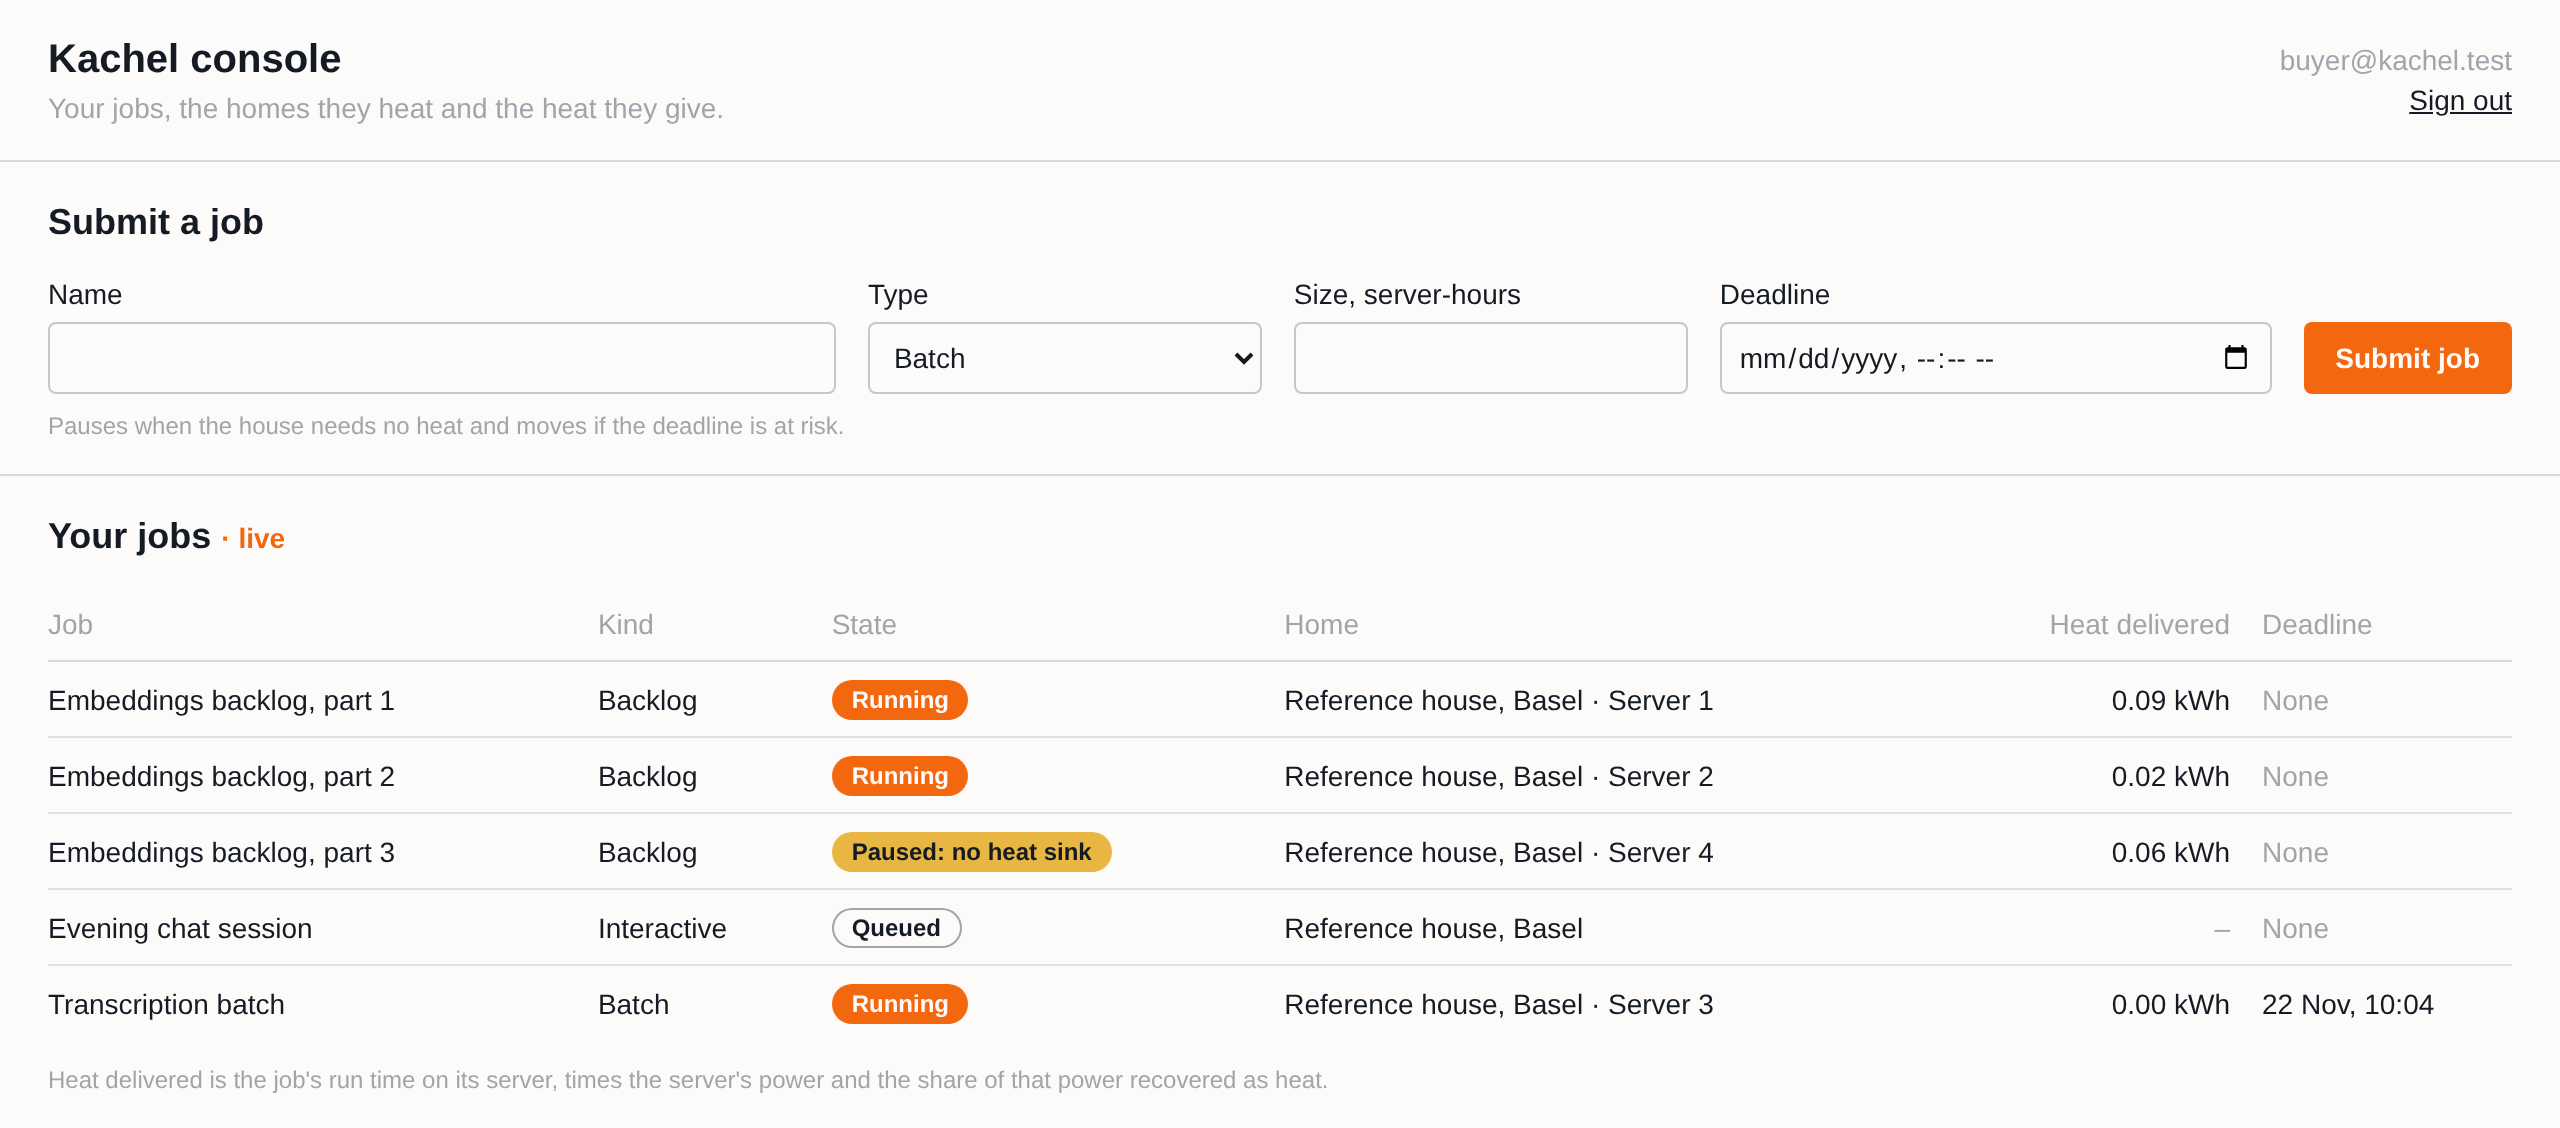
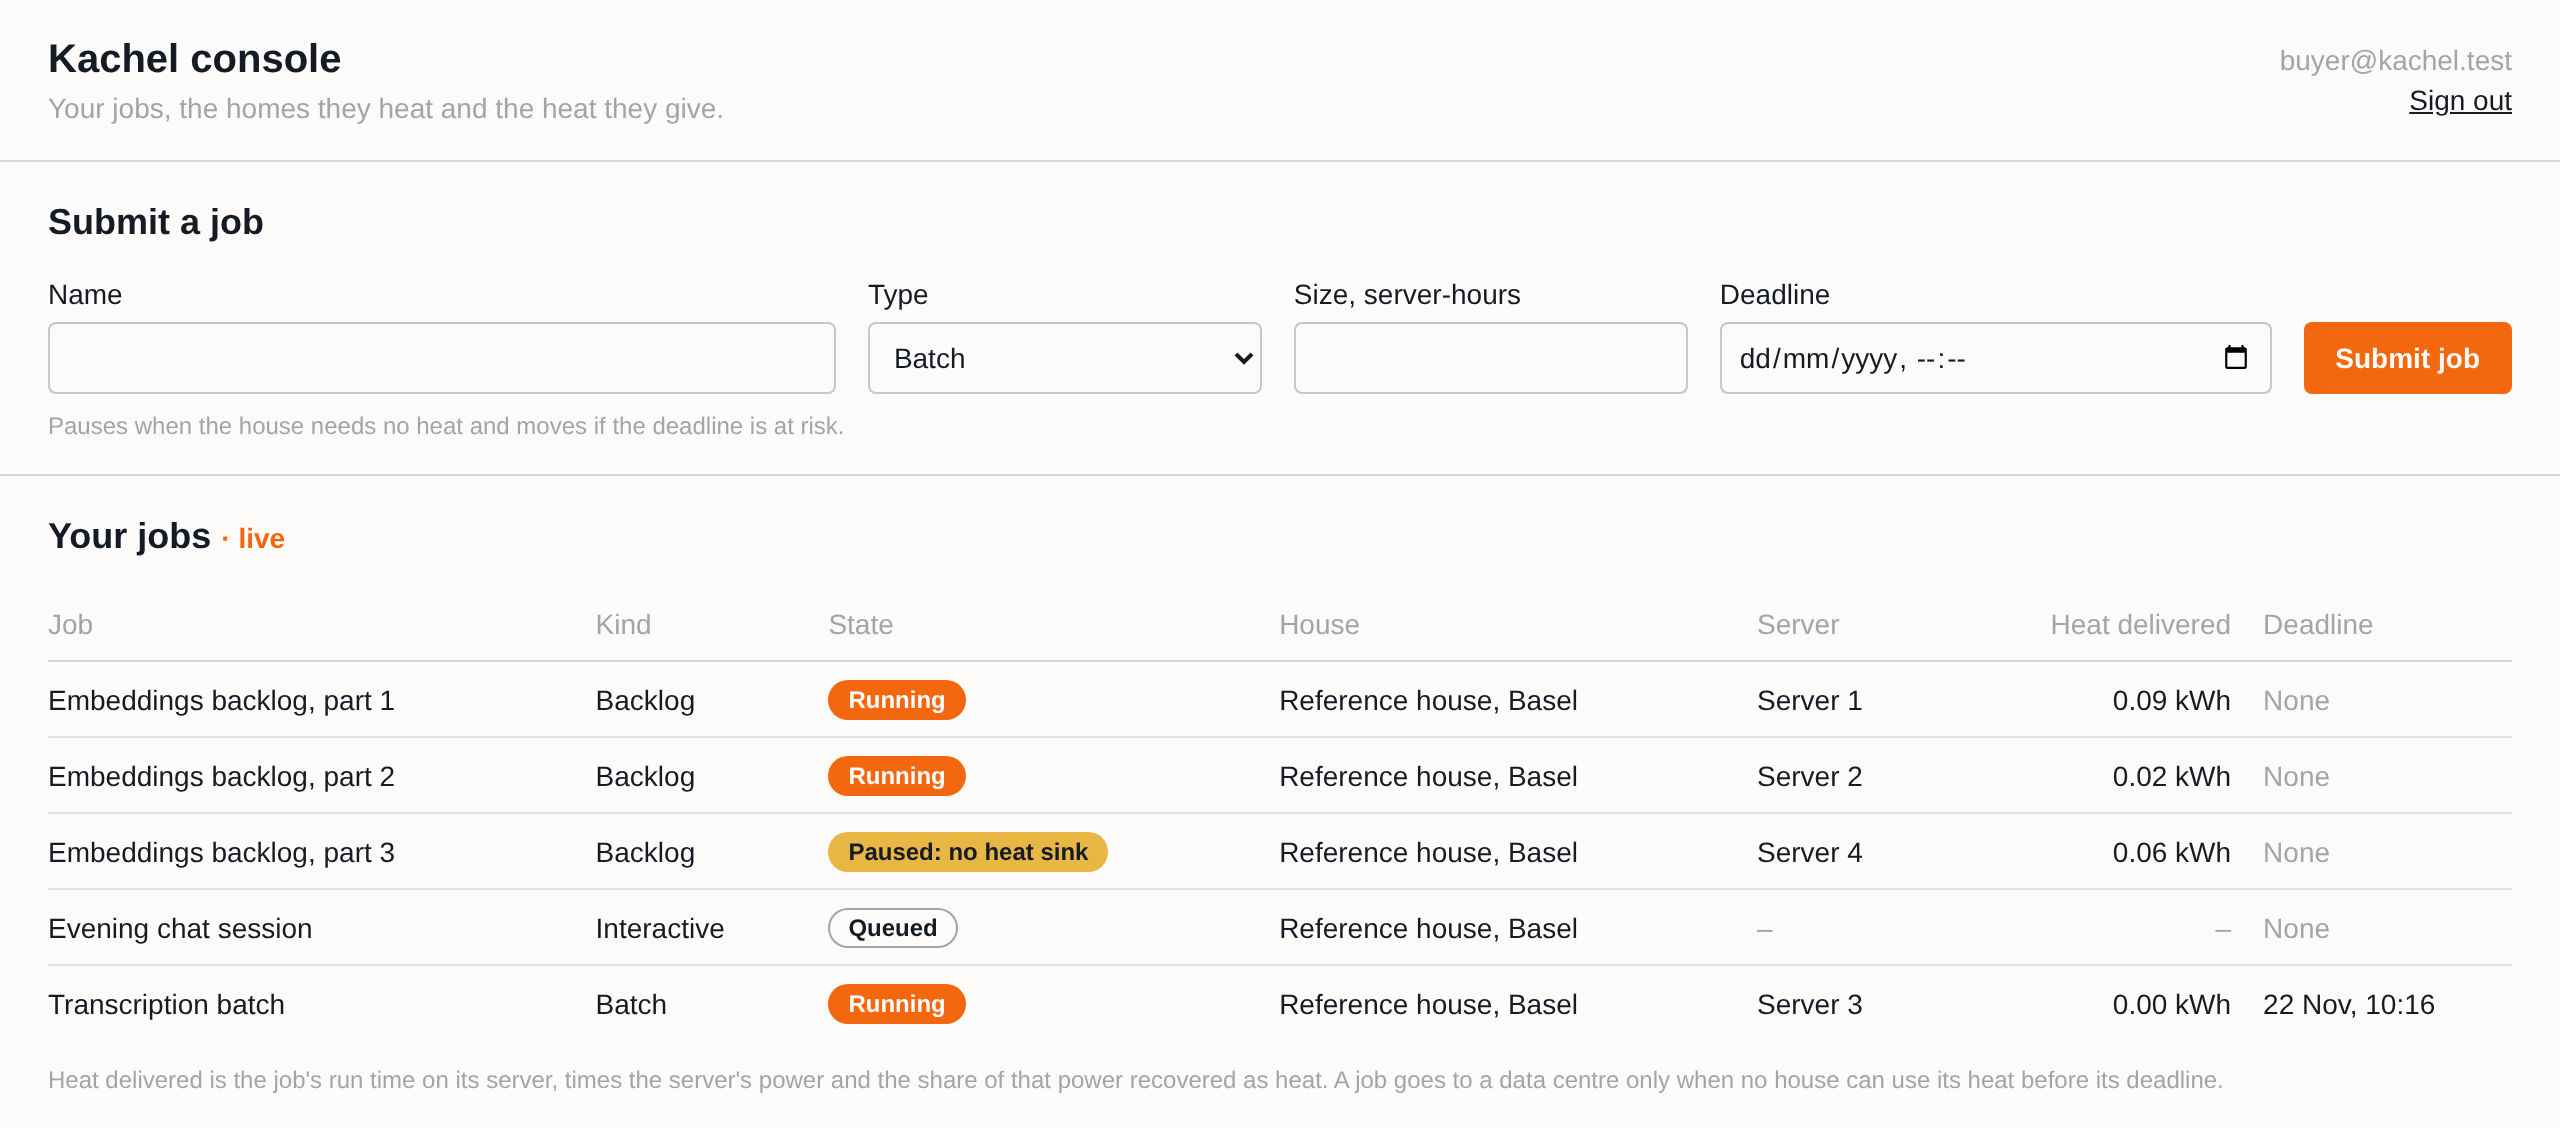
Label the replay honestly, show dates in en-GB, fit the host header on a phone (#109)
**What** The host's top block is now "The scheduler's day" with an amber "Replay of 13 Jan 2025" badge, and the list below is "Your servers now". Both apps are en-GB, deadlines read 24-hour in Zurich time, and the host header wraps cleanly at 390 px.

**Why** The replay said "6 servers working" above a live list showing 3 running. I kept the replay rather than mixing live counts into it: labelled, both are true.

**Checked** Format, lint, typecheck, tests and build locally; fresh `pnpm screenshots` (date field now dd/mm/yyyy) and a 390 px pass with no sideways scroll.

For the team: @Loyola-sk @bila9630, the new stills are in docs/media.

Closes #106

diff --git a/apps/host/src/house/House.tsx b/apps/host/src/house/House.tsx
@@ -3,15 +3,20 @@ import { Sourced } from "@kachel/ui";
 import { useEffect, useMemo, useState, type ReactNode } from "react";
 import { DayChart } from "./DayChart";
 import { chooseDay, dayMoney, hourAt, local, toDays, toPrices } from "./day";
-import { celsius, clock, kwh, longDate, shortDate } from "./format";
+import { celsius, clock, kwh, longDate, mediumDate, shortDate } from "./format";
 import { Money } from "./Money";
 import { TankGauge } from "./TankGauge";
 
 const systemClock = () => new Date();
 
-/** heat_state.server_hours in an hour is how many servers ran it. */
-const working = (n: number) =>
-  n === 0 ? "no server working" : n === 1 ? "1 server working" : `${n} servers working`;
+/**
+ * heat_state.server_hours in an hour is how many servers ran it. A replayed hour says "ran", so
+ * it is never read as the live server list below.
+ */
+const working = (n: number, live: boolean) => {
+  const servers = n === 0 ? "no server" : n === 1 ? "1 server" : `${n} servers`;
+  return live ? `${servers} working` : `${servers} ran in the replayed hour`;
+};
 
 function Reading({
   label,
@@ -171,13 +176,26 @@ export function House({ feed, now = systemClock }: { feed: HouseFeed; now?: () =
     <div className="space-y-5">
       <section aria-labelledby="now" className="rounded-lg border border-grid bg-paper p-5">
         <div className="flex flex-wrap items-baseline justify-between gap-x-4 gap-y-2">
-          <h2 id="now" className="text-lg font-semibold">
-            Your house now
-            <span className="ml-2 text-sm font-normal text-muted">
+          <div>
+            <h2
+              id="now"
+              className="flex flex-wrap items-center gap-x-2 gap-y-1 text-lg font-semibold"
+            >
+              {live ? "Your house now" : "The scheduler's day"}
+              {!live && (
+                <span
+                  data-replay
+                  className="rounded-full bg-amber px-2.5 py-0.5 text-xs font-semibold text-ink"
+                >
+                  Replay of {mediumDate(day.date)}
+                </span>
+              )}
+            </h2>
+            <p className="text-sm text-muted">
               {state.site.name}, {state.site.city}
               {current && ` · ${clock(current.hour)}`}
-            </span>
-          </h2>
+            </p>
+          </div>
           {days.length > 1 && (
             <div role="group" aria-label="Day" className="flex rounded-md border border-grid p-0.5">
               {days.map((d) => (
@@ -203,7 +221,8 @@ export function House({ feed, now = systemClock }: { feed: HouseFeed; now?: () =
           ) : (
             <>
               Replay of {longDate(day.date)} from the scheduler&apos;s yearly run, at the hour on
-              your clock. Today&apos;s hours take over once the scheduler writes them.
+              your clock, not your servers now: those are live below. Today&apos;s hours take over
+              once the scheduler writes them.
             </>
           )}
         </p>
@@ -216,7 +235,7 @@ export function House({ feed, now = systemClock }: { feed: HouseFeed; now?: () =
                 <p className="mt-5 border-t border-grid pt-3 text-sm">
                   <span className="text-muted">Scheduler: </span>
                   {current.row.reason}
-                  <span className="text-muted"> · {working(current.row.server_hours)}</span>
+                  <span className="text-muted"> · {working(current.row.server_hours, live)}</span>
                 </p>
               )}
             </div>

diff --git a/apps/host/src/house/House.test.tsx b/apps/host/src/house/House.test.tsx
@@ -22,6 +22,9 @@ describe("House", () => {
     ]);
     render(<House feed={feed} now={twoPm} />);
     expect(await screen.findByText(/Replay of 13 January 2025/)).toBeTruthy();
+    expect(screen.getByRole("heading", { name: /The scheduler's day/ }).textContent).toMatch(
+      /Replay of 13 Jan 2025/,
+    );
     expect(reading("Outdoor")).toMatch(/^2\.0/);
     expect(reading("Demand")).toMatch(/^7\.5/);
     expect(reading("Servers")).toMatch(/^4\.8/);
@@ -34,7 +37,7 @@ describe("House", () => {
   it("gives every number its source", async () => {
     const { feed } = fakeHouse(day(janHour));
     render(<House feed={feed} now={twoPm} />);
-    await screen.findByText(/Replay of/);
+    await screen.findByText(/Replay of 13 January/);
     const notes = screen.getAllByRole("tooltip", { hidden: true }).map((n) => n.textContent);
     expect(notes.some((n) => n?.includes("heat_state.temp_c"))).toBe(true);
     expect(notes.some((n) => n?.includes("kpis.computing_income_chf"))).toBe(true);
@@ -53,7 +56,7 @@ describe("House", () => {
   it("updates when the scheduler writes the hour again", async () => {
     const { feed, push } = fakeHouse(day(janHour));
     render(<House feed={feed} now={twoPm} />);
-    await screen.findByText(/Replay of/);
+    await screen.findByText(/Replay of 13 January/);
     expect(reading("Backup")).toMatch(/^5\.0/);
     act(() => push(janHour(14, { backup_kwh: 1.2 })));
     expect(reading("Backup")).toMatch(/^1\.2/);
@@ -62,9 +65,11 @@ describe("House", () => {
   it("calls today live once its hours arrive", async () => {
     const { feed, push } = fakeHouse(day(janHour));
     render(<House feed={feed} now={twoPm} />);
-    await screen.findByText(/Replay of/);
+    await screen.findByText(/Replay of 13 January/);
     act(() => push(janHour(14, { time: "2026-11-21T14:00:00+01:00", heat_used: 3.2 })));
     expect(screen.getByText(/Live: today/)).toBeTruthy();
+    expect(screen.getByRole("heading", { name: /Your house now/ })).toBeTruthy();
+    expect(document.querySelector("[data-replay]")).toBeNull();
     expect(reading("Servers")).toMatch(/^3\.2/);
   });
 

diff --git a/apps/host/src/App.tsx b/apps/host/src/App.tsx
@@ -22,16 +22,20 @@ export function App({
 
   return (
     <main className="min-h-screen bg-paper text-ink">
-      <header className="flex items-center gap-4 border-b border-idle/40 px-6 py-4">
-        <HeatLoop variant="wide" className="h-16 w-auto" />
-        <div className="flex-1">
+      <header className="flex flex-wrap items-center gap-x-4 gap-y-3 border-b border-idle/40 px-4 py-4 sm:px-6">
+        <HeatLoop variant="wide" className="h-12 w-auto shrink-0 sm:h-16" />
+        <div className="min-w-0 flex-1">
           <h1 className="text-xl font-semibold">Kachel</h1>
           <p className="text-sm text-idle">Your house, your heat, your servers.</p>
         </div>
         {email && (
-          <div className="text-right text-sm">
-            <p className="text-idle">{email}</p>
-            <button type="button" onClick={() => void auth.signOut()} className="underline">
+          <div className="flex w-full items-baseline justify-between gap-3 text-sm sm:block sm:w-auto sm:text-right">
+            <p className="min-w-0 truncate text-idle">{email}</p>
+            <button
+              type="button"
+              onClick={() => void auth.signOut()}
+              className="shrink-0 underline"
+            >
               Sign out
             </button>
           </div>

diff --git a/apps/console/src/jobs/JobTable.test.tsx b/apps/console/src/jobs/JobTable.test.tsx
@@ -67,6 +67,19 @@ const row = (label: string) => screen.getByText(label).closest("tr") as HTMLElem
 afterEach(cleanup);
 
 describe("JobTable", () => {
+  it("shows a deadline on a 24-hour clock in Basel's time", async () => {
+    const batch: LiveJob = {
+      ...job,
+      id: "j306",
+      label: "Transcription batch",
+      kind: "batch",
+      deadline_at: "2026-11-22T14:30:00+00:00",
+    };
+    const { feed } = fakeFeed([batch]);
+    render(<JobTable feed={feed} />);
+    expect(await screen.findByText("22 Nov, 15:30")).toBeTruthy();
+  });
+
   it("shows each job's state, house, server and heat delivered", async () => {
     const { feed } = fakeFeed([job, queued, moved]);
     render(<JobTable feed={feed} />);

diff --git a/apps/host/src/live/LiveJobs.tsx b/apps/host/src/live/LiveJobs.tsx
@@ -41,8 +41,11 @@ export function LiveJobs({ feed }: { feed: JobFeed }) {
   return (
     <section aria-labelledby="live-jobs" className="px-6 py-4">
       <h2 id="live-jobs" className="text-lg font-semibold">
-        Your servers {status === "live" && <span className="text-sm text-heat">· live</span>}
+        Your servers now {status === "live" && <span className="text-sm text-heat">· live</span>}
       </h2>
+      <p className="mt-1 text-xs text-muted">
+        What each server is doing this minute, as the agent pauses and resumes its job.
+      </p>
       <ul aria-live="polite" className="mt-3 divide-y divide-idle/30">
         {ordered.map((server) => {
           const job = [...jobs.values()]

diff --git a/apps/host/src/house/format.ts b/apps/host/src/house/format.ts
@@ -25,5 +25,10 @@ export const shortDate = (date: string) =>
   new Intl.DateTimeFormat("en-GB", { day: "numeric", month: "short", timeZone: ZONE }).format(
     new Date(`${date}T12:00:00Z`),
   );
+/** 13 Jan 2025 */
+export const mediumDate = (date: string) =>
+  new Intl.DateTimeFormat("en-GB", { dateStyle: "medium", timeZone: ZONE }).format(
+    new Date(`${date}T12:00:00Z`),
+  );
 /** 14:00 */
 export const clock = (hour: number) => `${String(hour).padStart(2, "0")}:00`;

diff --git a/apps/console/src/jobs/JobTable.tsx b/apps/console/src/jobs/JobTable.tsx
@@ -23,11 +23,14 @@ export const KINDS: Record<JobKind, string> = {
   opportunistic: "Backlog",
 };
 
+/** 22 Nov, 10:04: a 24-hour clock in the houses' own time zone, whatever the browser's. */
 const when = new Intl.DateTimeFormat("en-GB", {
   day: "numeric",
   month: "short",
   hour: "2-digit",
   minute: "2-digit",
+  hourCycle: "h23",
+  timeZone: "Europe/Zurich",
 });
 
 const kwh = new Intl.NumberFormat("en-GB", { minimumFractionDigits: 2, maximumFractionDigits: 2 });

diff --git a/apps/console/index.html b/apps/console/index.html
@@ -1,5 +1,5 @@
 <!doctype html>
-<html lang="en">
+<html lang="en-GB">
   <head>
     <meta charset="UTF-8" />
     <meta name="viewport" content="width=device-width, initial-scale=1.0" />

diff --git a/apps/host/index.html b/apps/host/index.html
@@ -1,5 +1,5 @@
 <!doctype html>
-<html lang="en">
+<html lang="en-GB">
   <head>
     <meta charset="UTF-8" />
     <meta name="viewport" content="width=device-width, initial-scale=1.0" />
